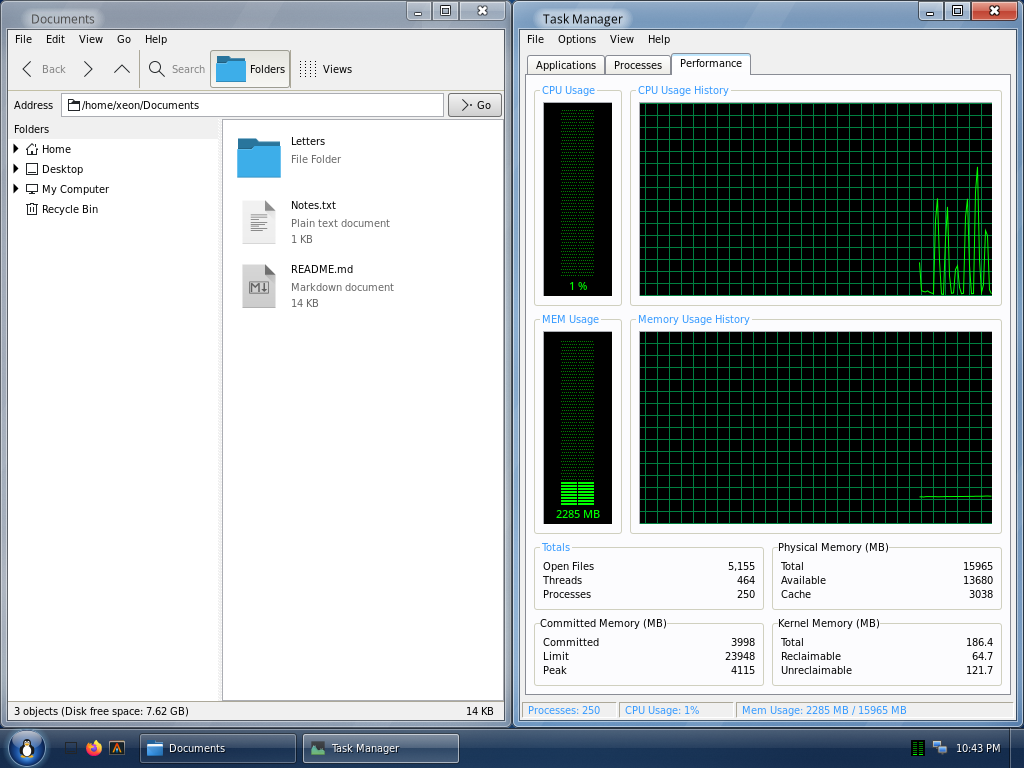
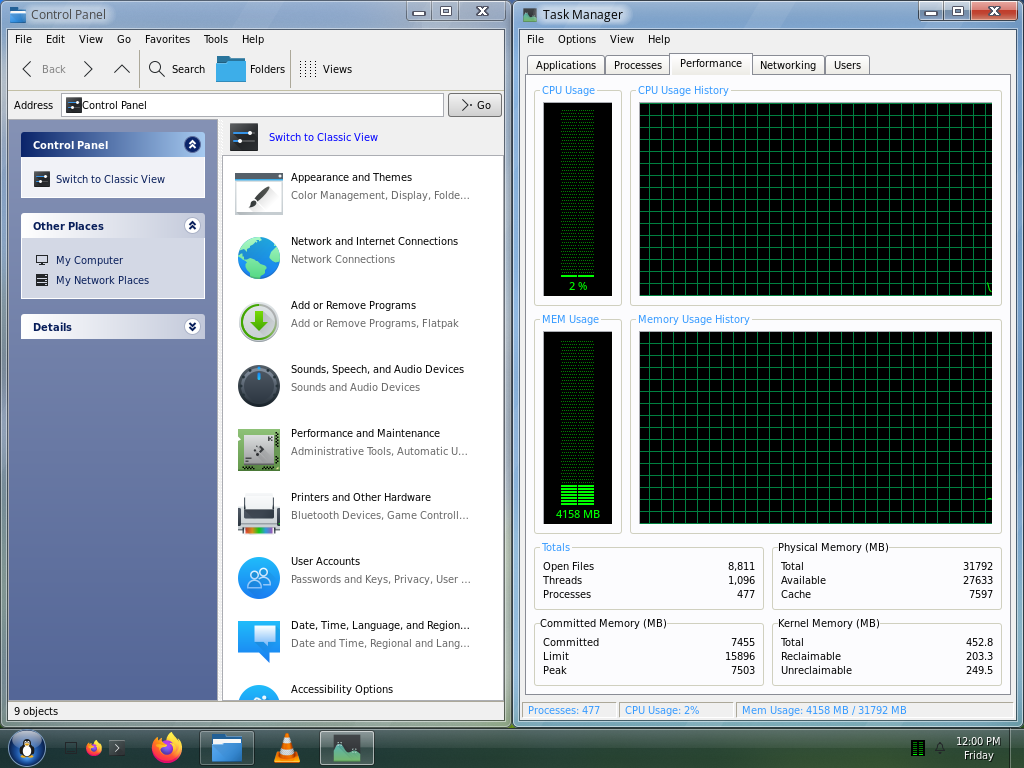
README: new screenshots, taken by tools/screenshots.sh
The README showed eight screenshots taken by hand. It shows fourteen
now: each style and Luna colour scheme with our wallpapers, both Start
menus, Aero's glass, Snap, thumbnails and Alt+Tab, Date and Time's map,
Minefield, Shut Down and Windows Security. tools/screenshots.sh takes
them again: the UI tests' showcase scenarios (run only when named, not
in the suite), the Aero ones on the GPU. As they're published, their
sessions have a stand-in user's full name and computer name (in a
private /etc/passwd and UTS namespace), and System Properties, which
shows the computer's hardware, isn't among them.

diff --git a/tests/ui/run.py b/tests/ui/run.py
@@ -68,9 +68,12 @@ SCENARIOS = {}
 SCENARIO_OPTIONS = {}
 
 
-def scenario(desktop_ini=CLASSIC_INI, requires=(), outputs=None, setup=None, x11=False):
+def scenario(desktop_ini=CLASSIC_INI, requires=(), outputs=None, setup=None, x11=False,
+             showcase=False):
     """Registers a scenario: a function of the session (Session), run with
-    that desktop.ini; it's skipped without the Python modules it requires."""
+    that desktop.ini; it's skipped without the Python modules it requires.
+    A showcase one takes a README screenshot (tools/screenshots.sh) and
+    runs only when named, never in the suite."""
 
     def register(fn):
         SCENARIOS[fn.__name__] = (fn, desktop_ini, requires)
@@ -78,6 +81,7 @@ def scenario(desktop_ini=CLASSIC_INI, requires=(), outputs=None, setup=None, x11
             "outputs": outputs or [(WIDTH, HEIGHT, 1)],
             "setup": setup,
             "x11": x11,
+            "showcase": showcase,
         }
         return fn
 
@@ -234,6 +238,23 @@ def populate(base, home_src, desktop_ini, outputs):
         f.write("Shopping list\n")
 
 
+STANDIN_NAME = "User"
+STANDIN_HOST = "xeondesktop"
+
+
+def standin_identity():
+    """/etc/passwd with our full name as STANDIN_NAME, and /etc/hostname."""
+    uid = os.getuid()
+    lines = []
+    with open("/etc/passwd") as f:
+        for line in f:
+            fields = line.rstrip("\n").split(":")
+            if len(fields) == 7 and fields[2] == str(uid):
+                fields[4] = STANDIN_NAME
+            lines.append(":".join(fields))
+    return {"/etc/passwd": "\n".join(lines) + "\n", "/etc/hostname": STANDIN_HOST + "\n"}
+
+
 def run_scenario(name, build, keep, keep_all=False):
     """Runs one scenario in a session of its own; True if it passed."""
     desktop_ini = SCENARIOS[name][1]
@@ -307,6 +328,17 @@ def run_scenario(name, build, keep, keep_all=False):
             binds.append(f"mkdir -p {shlex.quote(inside)}")
             binds.append(f"mount --bind {shlex.quote(path)} {shlex.quote(inside)}")
     binds.append(f"mount --rbind {shlex.quote(home_src)} {shlex.quote(home)}")
+    # A showcase's screenshots are published: a stand-in for whoever runs
+    # it (their full name in the passwd file, and the computer's name),
+    # in this namespace only.
+    showcase = SCENARIO_OPTIONS[name]["showcase"]
+    if showcase:
+        for path, text in standin_identity().items():
+            fake = os.path.join(base, os.path.basename(path))
+            with open(fake, "w") as f:
+                f.write(text)
+            binds.append(f"mount --bind {shlex.quote(fake)} {shlex.quote(path)}")
+        binds.append(f"hostname {STANDIN_HOST}")
     # Xwayland's sockets: an empty directory of the session's own, ours
     # (as root here is) once back to our uid.
     if SCENARIO_OPTIONS[name]["x11"]:
@@ -317,7 +349,7 @@ def run_scenario(name, build, keep, keep_all=False):
     )
     script = "set -e\n" + "\n".join(binds)
     cmd = [
-        "unshare", "-r", "-m", "sh", "-c", script,
+        "unshare", "-r", "-m", *(["--uts"] if showcase else []), "sh", "-c", script,
         "timeout", "-k", "5", str(SCENARIO_LIMIT),
         "dbus-run-session", "--",
         sys.executable, os.path.abspath(__file__), "--inner", name,
@@ -361,9 +393,14 @@ def run_scenario(name, build, keep, keep_all=False):
     return passed
 
 
+def suite():
+    """The scenarios run by default and by meson: all but the showcase."""
+    return [n for n in SCENARIOS if not SCENARIO_OPTIONS[n]["showcase"]]
+
+
 def outer(args):
     build = os.path.realpath(args.build_dir)
-    names = args.scenarios or list(SCENARIOS)
+    names = args.scenarios or suite()
     for n in names:
         if n not in SCENARIOS:
             print(f"run.py: no scenario {n} (try --list)", file=sys.stderr)
@@ -8321,6 +8358,198 @@ def alt_tab_package(s):
     s.log("ok: Alt+Tab's window is the package's, and closes with Alt")
 
 
+# ---- showcase: the README's screenshots ----------------------------------------
+#
+# tools/screenshots.sh runs these (the Aero ones on the GPU, for blurred
+# glass) and copies each one's last screenshot, labelled "showcase", into
+# docs/screenshots. They run only when named.
+
+WALLPAPERS = os.path.join(SOURCE_ROOT, "data", "wallpapers")
+
+
+def showcase_ini(style, start_menu, scheme=None, wallpaper=None, extra=""):
+    """A desktop.ini for a showcase: the style and Start menu, a colour
+    scheme and one of our own wallpapers."""
+    ini = f"[Appearance]\nStyle={style}\n"
+    if scheme:
+        ini += f"Scheme={scheme}\n"
+    ini += f"\n[StartMenu]\nStyle={start_menu}\n"
+    if wallpaper:
+        ini += (f"\n[Desktop]\nWallpaper={os.path.join(WALLPAPERS, wallpaper)}\n"
+                "WallpaperMode=fill\n")  # fmt: skip
+    return ini + extra
+
+
+def showcase_shot(s):
+    """The README's screenshot: once everything has settled."""
+    s.settle("settled")
+    s.shot("showcase")
+
+
+@scenario(showcase_ini("classic", "classic"), showcase=True)
+def showcase_classic(s):
+    """Classic: Windows 2000's Start menu, Programs and Accessories open,
+    over My Computer."""
+    s.launch("xd-files", "computer:///")
+    s.wait_window(title="My Computer", state="activated")
+    s.settle("my-computer")
+    # P opens Programs; Right opens its first folder, Accessories.
+    s.inject("key", "ctrl+Escape", "sleep", 600, "key", "p", "sleep", 600, "key", "Right",
+             "sleep", 600)  # fmt: skip
+    showcase_shot(s)
+
+
+@scenario(showcase_ini("luna", "xp", "luna-blue", "Storm Hill.jpg"), setup=mock_laptop,
+          requires=("dbusmock",), showcase=True)  # fmt: skip
+def showcase_luna(s):
+    """Luna (Blue): XP's Start menu over My Documents, a battery in the
+    notification area."""
+    s.launch("xd-files", os.path.join(s.home, "Documents"))
+    s.wait_window(title="Documents", state="activated")
+    s.settle("documents")
+    s.inject("key", "ctrl+Escape", "sleep", 800)
+    showcase_shot(s)
+
+
+@scenario(showcase_ini("luna", "xp", "luna-olive", "Olive Forest.jpg"), showcase=True)
+def showcase_olive(s):
+    """Luna (Olive Green): Control Panel's categories."""
+    s.launch("xd-control")
+    s.wait_window(title="Control Panel", state="activated")
+    showcase_shot(s)
+
+
+@scenario(showcase_ini("luna", "xp", "luna-silver", "Silver Factory.jpg"), showcase=True)
+def showcase_silver(s):
+    """Luna (Silver): My Computer with its task pane, and Folder Options.
+    (Not System Properties: it shows the computer's own hardware.)"""
+    s.launch("xd-files", "computer:///")
+    s.wait_window(title="My Computer", state="activated")
+    s.settle("my-computer")
+    s.launch("xd-folders")
+    s.wait_window(title="Folder Options", state="activated")
+    showcase_shot(s)
+
+
+@scenario(showcase_ini("luna", "xp", "luna-dark", "Energy.jpg"), showcase=True)
+def showcase_dark(s):
+    """Luna (Dark): Display Properties' Appearance tab."""
+    s.launch("xd-desk", "--page", "3")
+    s.wait_window(title="Display Properties", state="activated")
+    showcase_shot(s)
+
+
+@scenario(showcase_ini("aero", "win7", None, "Storm Hill.jpg"), setup=glass_setup,
+          showcase=True)  # fmt: skip
+def showcase_aero(s):
+    """Aero: Windows 7's Start menu over a window, on blurred glass."""
+    s.launch("xd-files", os.path.join(s.home, "Pictures"))
+    s.wait_window(title="Pictures", state="activated")
+    s.settle("pictures")
+    s.inject("key", "ctrl+Escape", "sleep", 800)
+    showcase_shot(s)
+
+
+@scenario(showcase_ini("aero", "win7", None, "Storm Hill.jpg"), setup=glass_setup,
+          showcase=True)  # fmt: skip
+def showcase_aero_snap(s):
+    """Aero Snap: Control Panel and Task Manager side by side."""
+    s.launch("xd-control")
+    s.wait_window(title="Control Panel", state="activated")
+    s.inject("key", "super+Left")
+    s.launch("xd-taskmgr")
+    s.wait_window(title="Task Manager", state="activated")
+    s.inject("key", "super+Right", "sleep", 300, "key", "ctrl+Tab", "key", "ctrl+Tab")
+    s.inject("move", WIDTH // 2, HEIGHT // 2, "sleep", 2500)
+    showcase_shot(s)
+
+
+@scenario(showcase_ini("aero", "win7", None, "Storm Hill.jpg"), setup=glass_setup,
+          showcase=True)  # fmt: skip
+def showcase_aero_thumbnails(s):
+    """Aero: a program's window thumbnails above its taskbar button."""
+    bar = (0, HEIGHT - 40, WIDTH, 40)
+    before = s.settle("taskbar")
+    for folder in ("Documents", "Pictures"):
+        s.launch("xd-files", os.path.join(s.home, folder))
+        s.wait_window(title=folder, state="activated")
+    after = s.settle("two-windows")
+    button = after.changed_box(before, bar)
+    s.inject("move", button[0] + button[2] // 2, HEIGHT - 20, "sleep", 1200)
+    showcase_shot(s)
+
+
+@scenario(showcase_ini("aero", "win7", None, "Storm Hill.jpg"), setup=glass_setup,
+          showcase=True)  # fmt: skip
+def showcase_alt_tab(s):
+    """Alt+Tab's window over three windows, on glass."""
+    s.launch("xd-control")
+    s.wait_window(title="Control Panel", state="activated")
+    s.launch("xd-files", os.path.join(s.home, "Documents"))
+    s.wait_window(title="Documents", state="activated")
+    s.launch("xd-desk")
+    s.wait_window(title="Display Properties", state="activated")
+    s.settle("three")
+    held = subprocess.Popen([s.tool("xd-inject"), "hold", "alt", "key", "Tab", "sleep", "5000",
+                             "release", "alt"])  # fmt: skip
+    time.sleep(1.5)
+    s.shot("showcase")
+    held.wait(timeout=30)
+
+
+@scenario(showcase_ini("whistler", "xp", None, "Watercolor Blue.jpg"), showcase=True)
+def showcase_watercolor(s):
+    """Watercolor: Taskbar and Start Menu Properties over My Computer."""
+    s.launch("xd-files", "computer:///")
+    s.wait_window(title="My Computer", state="activated")
+    s.settle("my-computer")
+    s.launch("xd-taskbar")
+    s.wait_window(title="Taskbar and Start Menu Properties", state="activated")
+    showcase_shot(s)
+
+
+@scenario(showcase_ini("luna", "xp", "luna-blue", "Storm Hill.jpg"), requires=("dbusmock",),
+          showcase=True)  # fmt: skip
+def showcase_date_time(s):
+    """Date and Time Properties' Time Zone tab with its map."""
+    mock_timedate(s, {"SystemNTPServers": ["time.example.org"],
+                      "ServerName": "time.example.org", "Received": time.time() - 3600})
+    s.launch("xd-timedate", "--page", "1")
+    s.wait_window(title="Date and Time Properties", state="activated")
+    showcase_shot(s)
+
+
+@scenario(showcase_ini("luna", "xp", "luna-blue", "Storm Hill.jpg"), showcase=True)
+def showcase_minefield(s):
+    """Minefield, a game under way."""
+    desktop = s.settle("desktop")
+    s.launch(s.tool("xd-mines"), "--seed", "5")  # its first click opens a good area
+    s.wait_window(title="Minefield", state="activated")
+    board = s.settle("board")
+    x, y, w, h = board.changed_box(desktop, (0, 0, WIDTH, HEIGHT - 40))
+    # The 9 x 9 squares fill the window's lower part.
+    s.inject("move", x + w // 2, y + h - h // 3, "click", "sleep", 300, "move", x - 40, y + h // 2)
+    showcase_shot(s)
+
+
+@scenario(showcase_ini("luna", "xp", "luna-blue", "Storm Hill.jpg"), showcase=True)
+def showcase_shut_down(s):
+    """XP's Turn Off Computer, from the Start menu."""
+    s.inject("key", "ctrl+Escape", "sleep", 600, "key", "u")
+    s.wait_window(title="Shut Down XeonDesktop", state="activated")
+    showcase_shot(s)
+
+
+@scenario(showcase_ini("classic", "classic"), showcase=True)
+def showcase_security(s):
+    """Ctrl+Alt+Delete: XeonDesktop Security."""
+    s.launch("xd-control")
+    s.wait_window(title="Control Panel", state="activated")
+    s.settle("control-panel")
+    s.inject("key", "ctrl+alt+Delete", "sleep", 1500)
+    showcase_shot(s)
+
+
 def main():
     p = argparse.ArgumentParser(description=__doc__.split("\n\n")[0])
     p.add_argument("--build-dir", default=os.path.join(SOURCE_ROOT, "build"))
@@ -8334,11 +8563,12 @@ def main():
     p.add_argument("scenarios", nargs="*")
     args = p.parse_args()
     if args.names:
-        print("\n".join(SCENARIOS))
+        print("\n".join(suite()))
         return 0
     if args.list:
         for name, (fn, _, _) in SCENARIOS.items():
-            print(f"{name}: {' '.join(fn.__doc__.split())}")
+            mark = " (showcase)" if SCENARIO_OPTIONS[name]["showcase"] else ""
+            print(f"{name}{mark}: {' '.join(fn.__doc__.split())}")
         return 0
     if args.inner:
         return inner(args)

diff --git a/README.md b/README.md
@@ -6,22 +6,29 @@ the design.
 
 | Classic (Windows 2000) | Luna (XP) |
 |---|---|
-| ![Classic style: the Windows 2000 Start menu with Programs and Accessories open over My Computer](docs/screenshots/classic-start-menu.png) | ![Luna style: the Windows XP Start menu over My Documents in Tiles view](docs/screenshots/luna-desktop.png) |
+| ![Classic style: the Windows 2000 Start menu with Programs and Accessories open over My Computer](docs/screenshots/classic.png) | ![Luna style: the Windows XP Start menu over My Documents, a battery in the notification area](docs/screenshots/luna.png) |
+| **Luna, Olive Green** | **Luna, Silver** |
+| ![Luna in Olive Green: Control Panel's categories](docs/screenshots/olive.png) | ![Luna in Silver: My Computer with its task pane, and Folder Options](docs/screenshots/silver.png) |
+| **Luna, Dark** | **Watercolor (Whistler)** |
+| ![Luna in the Dark colour scheme: Display Properties' Appearance tab](docs/screenshots/dark.png) | ![Watercolor style: Taskbar and Start Menu Properties over My Computer](docs/screenshots/watercolor.png) |
 | **Aero (Windows 7)** | **Aero Snap** |
-| ![Aero style: the Windows 7 Start menu and a window, with blurred glass](docs/screenshots/aero-desktop.png) | ![Two windows snapped side by side, with Task Manager's Performance tab and its CPU meter in the notification area](docs/screenshots/aero-snap.png) |
-| **Watercolor (Whistler)** | **Display Properties** |
-| ![Watercolor style: Taskbar and Start Menu Properties over My Computer](docs/screenshots/watercolor-desktop.png) | ![Display Properties, Appearance tab](docs/screenshots/display-properties.png) |
+| ![Aero style: the Windows 7 Start menu over a window, on blurred glass](docs/screenshots/aero.png) | ![Control Panel and Task Manager snapped side by side, Task Manager's Performance tab showing](docs/screenshots/aero-snap.png) |
+| **Taskbar thumbnails** | **Alt+Tab** |
+| ![Two windows' thumbnails above their taskbar button](docs/screenshots/aero-thumbnails.png) | ![Alt+Tab's window over three windows](docs/screenshots/alt-tab.png) |
+| **Date and Time** | **Minefield** |
+| ![Date and Time Properties' Time Zone tab with its map](docs/screenshots/date-time.png) | ![Minefield, a game under way](docs/screenshots/minefield.png) |
 | **Shut Down** | **Windows Security (Ctrl+Alt+Delete)** |
-| ![Shut Down dialog](docs/screenshots/shut-down.png) | ![The XeonDesktop Security dialog](docs/screenshots/windows-security.png) |
+| ![The Shut Down dialog](docs/screenshots/shut-down.png) | ![The XeonDesktop Security dialog](docs/screenshots/security.png) |
 
 All artwork is drawn by the theme engine; no Microsoft assets are used.
 The Time Zone map draws Natural Earth's land outlines (public domain,
 naturalearthdata.com).
 The Start button logo is Tux, the Linux mascot originally drawn by Larry
 Ewing (lewing@isc.tamu.edu) with The GIMP; ours is a simplified procedural
-rendition. Screenshots are from headless test sessions at 1024x768; the
-Aero ones use the GPU build (blurred glass), and their wallpaper is a
-gradient made for them.
+rendition. Screenshots are from headless sessions at 1024x768, with a
+stand-in user and our own wallpapers; the Aero ones use the GPU build
+(blurred glass). `tools/screenshots.sh` takes them again (the UI tests'
+showcase scenarios).
 
 ## Build
 
